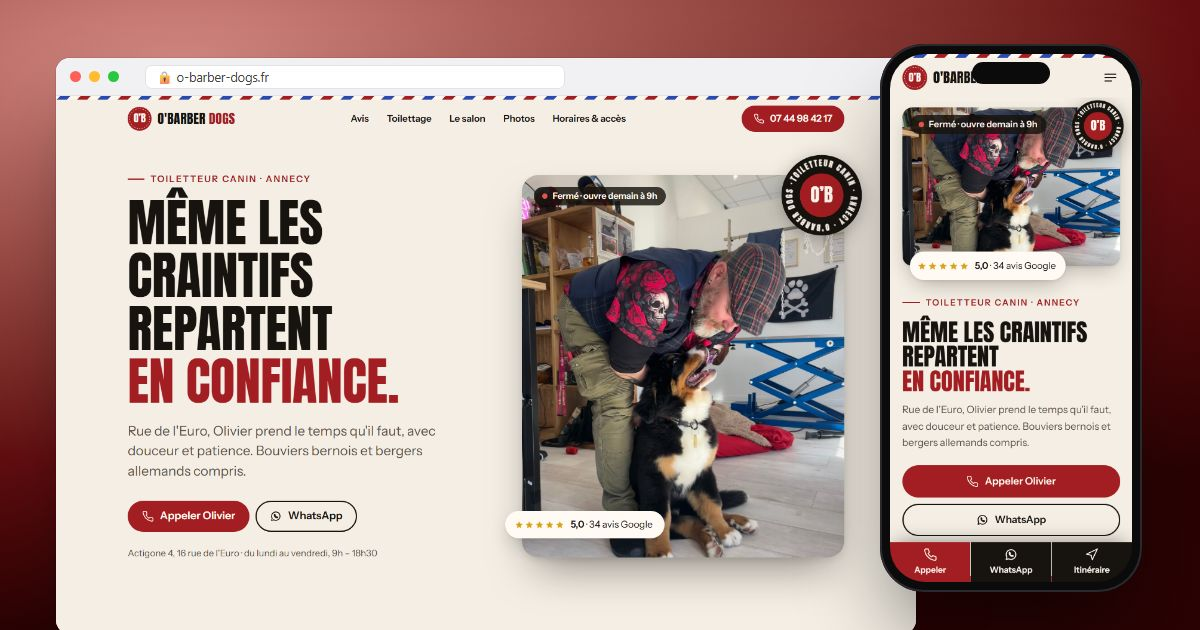
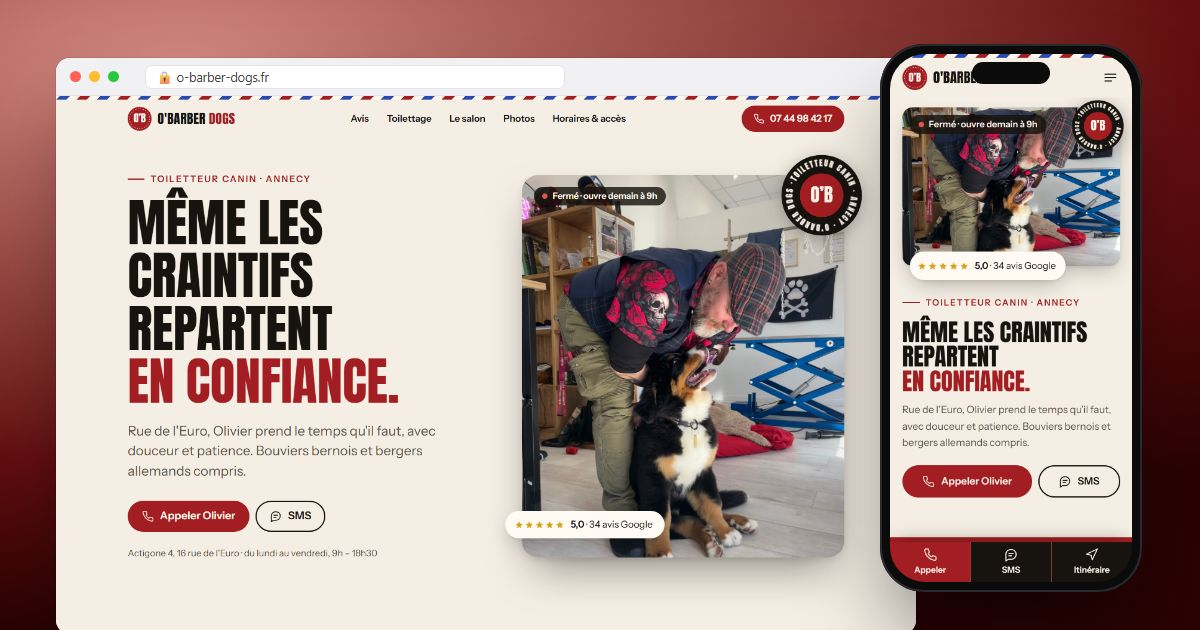
Generated site

diff --git a/index.html b/index.html
@@ -559,7 +559,7 @@ section[id] { scroll-margin-top: var(--header-h); }
 <body id="top">
 <svg width="0" height="0" style="position:absolute" aria-hidden="true" focusable="false">
   <symbol id="i-phone" viewBox="0 0 24 24"><path d="M22 16.9v3a2 2 0 0 1-2.2 2 19.8 19.8 0 0 1-8.6-3.1 19.5 19.5 0 0 1-6-6A19.8 19.8 0 0 1 2.1 4.2 2 2 0 0 1 4.1 2h3a2 2 0 0 1 2 1.7c.1.9.4 1.9.7 2.8a2 2 0 0 1-.4 2.1L8.1 9.9a16 16 0 0 0 6 6l1.3-1.3a2 2 0 0 1 2.1-.4c.9.3 1.9.6 2.8.7a2 2 0 0 1 1.7 2z"/></symbol>
-  <symbol id="i-wa" viewBox="0 0 24 24"><path d="M20.5 11.8a8.5 8.5 0 0 1-12.6 7.4L3.5 20.5l1.3-4.2a8.5 8.5 0 1 1 15.7-4.5z"/><path d="M9.3 8.2c.3-.5.8-.5 1 0l.7 1.6c.1.3 0 .6-.2.8l-.5.5a5.2 5.2 0 0 0 2.6 2.6l.5-.5c.2-.2.5-.3.8-.2l1.6.7c.5.2.5.7 0 1-.6.4-1.3.6-2 .4a6.6 6.6 0 0 1-4.9-4.9c-.1-.7.1-1.5.4-2z"/></symbol>
+  <symbol id="i-sms" viewBox="0 0 24 24"><path d="M21 11.5a8.5 8.5 0 0 1-8.5 8.5H7.5L3 23v-11.5A8.5 8.5 0 0 1 11.5 3h1A8.5 8.5 0 0 1 21 11.5z"/><path d="M8 10h8M8 14h5"/></symbol>
   <symbol id="i-nav" viewBox="0 0 24 24"><path d="M3 11l19-9-9 19-2-8-8-2z"/></symbol>
   <symbol id="i-pin" viewBox="0 0 24 24"><path d="M20 10c0 6-8 12-8 12s-8-6-8-12a8 8 0 0 1 16 0z"/><circle cx="12" cy="10" r="3"/></symbol>
   <symbol id="i-star" viewBox="0 0 24 24"><path fill="currentColor" stroke="none" d="M12 2.5l2.9 6 6.6.9-4.8 4.6 1.2 6.5L12 17.4l-5.9 3.1 1.2-6.5L2.5 9.4l6.6-.9z"/></symbol>
@@ -637,7 +637,7 @@ section[id] { scroll-margin-top: var(--header-h); }
         <p class="hero-sub">Rue de l'Euro, Olivier prend le temps qu'il faut, avec douceur et patience. Bouviers bernois et bergers allemands compris.</p>
         <div class="hero-ctas">
           <a class="btn btn-brand" href="tel:+33744984217"><svg class="ic" aria-hidden="true"><use href="#i-phone"/></svg>Appeler Olivier</a>
-          <a class="btn btn-ghost" href="https://wa.me/33744984217?text=Bonjour%2C%20je%20souhaiterais%20prendre%20rendez-vous%20pour%20le%20toilettage%20de%20mon%20chien." target="_blank" rel="noopener"><svg class="ic" aria-hidden="true"><use href="#i-wa"/></svg>WhatsApp</a>
+          <a class="btn btn-ghost" href="sms:+33744984217?&amp;body=Bonjour%2C%20je%20souhaiterais%20prendre%20rendez-vous%20pour%20le%20toilettage%20de%20mon%20chien."><svg class="ic" aria-hidden="true"><use href="#i-sms"/></svg>SMS</a>
         </div>
         <p class="hero-note">Actigone 4, 16 rue de l'Euro · du lundi au vendredi, 9h – 18h30</p>
       </div>
@@ -872,13 +872,13 @@ section[id] { scroll-margin-top: var(--header-h); }
       <div class="book-copy reveal">
         <p class="eyebrow">Rendez-vous</p>
         <h2 class="h2" id="rdv-title">Parlez de votre chien à Olivier.</h2>
-        <p>Par téléphone ou sur WhatsApp, du lundi au vendredi. Précisez sa race, son âge, et s'il est craintif.</p>
+        <p>Par téléphone ou par SMS, du lundi au vendredi. Précisez sa race, son âge, et s'il est craintif.</p>
         <a class="big-phone" href="tel:+33744984217" aria-label="Appeler le 07 44 98 42 17">07 44 98 42 17</a>
-        <div><a class="btn btn-line-light" href="https://wa.me/33744984217?text=Bonjour%2C%20je%20souhaiterais%20prendre%20rendez-vous%20pour%20le%20toilettage%20de%20mon%20chien." target="_blank" rel="noopener"><svg class="ic" aria-hidden="true"><use href="#i-wa"/></svg>Écrire sur WhatsApp</a></div>
+        <div><a class="btn btn-line-light" href="sms:+33744984217?&amp;body=Bonjour%2C%20je%20souhaiterais%20prendre%20rendez-vous%20pour%20le%20toilettage%20de%20mon%20chien."><svg class="ic" aria-hidden="true"><use href="#i-sms"/></svg>Écrire par SMS</a></div>
       </div>
       <div class="wa-card reveal">
         <h3>Préparer mon message</h3>
-        <p>Il s'ouvre dans WhatsApp. Rien n'est envoyé sans vous.</p>
+        <p>Il s'ouvre dans vos SMS. Rien n'est envoyé sans vous.</p>
         <form class="wa-form" id="wa-form" novalidate>
           <label class="field"><span>Prénom de votre chien</span>
             <input name="dog" type="text" autocomplete="off">
@@ -889,7 +889,7 @@ section[id] { scroll-margin-top: var(--header-h); }
           <label class="field"><span>Un mot pour Olivier <em>(âge, caractère… facultatif)</em></span>
             <textarea name="msg" rows="3"></textarea>
           </label>
-          <button class="btn btn-brand" type="submit"><svg class="ic" aria-hidden="true"><use href="#i-wa"/></svg>Ouvrir dans WhatsApp</button>
+          <button class="btn btn-brand" type="submit"><svg class="ic" aria-hidden="true"><use href="#i-sms"/></svg>Ouvrir dans mes SMS</button>
         </form>
       </div>
     </div>
@@ -911,7 +911,7 @@ section[id] { scroll-margin-top: var(--header-h); }
 
 <nav class="actionbar" aria-label="Actions rapides">
   <a href="tel:+33744984217"><svg class="ic" aria-hidden="true"><use href="#i-phone"/></svg>Appeler</a>
-  <a href="https://wa.me/33744984217?text=Bonjour%2C%20je%20souhaiterais%20prendre%20rendez-vous%20pour%20le%20toilettage%20de%20mon%20chien." target="_blank" rel="noopener"><svg class="ic" aria-hidden="true"><use href="#i-wa"/></svg>WhatsApp</a>
+  <a href="sms:+33744984217?&amp;body=Bonjour%2C%20je%20souhaiterais%20prendre%20rendez-vous%20pour%20le%20toilettage%20de%20mon%20chien."><svg class="ic" aria-hidden="true"><use href="#i-sms"/></svg>SMS</a>
   <a href="https://www.google.com/maps/dir/?api=1&amp;destination=O'Barber%20Dogs%2C%2016%20Rue%20de%20l'Euro%2C%2074960%20Annecy" target="_blank" rel="noopener"><svg class="ic" aria-hidden="true"><use href="#i-nav"/></svg>Itinéraire</a>
 </nav>
 
@@ -1076,7 +1076,7 @@ section[id] { scroll-margin-top: var(--header-h); }
     tiles.forEach(t => t.addEventListener('click', () => open($('img', t).src, '_blank')));
   }
 
-  // WhatsApp message builder (opens WhatsApp, posts nothing)
+  // SMS message builder (opens the SMS app, posts nothing)
   const form = $('#wa-form');
   form.addEventListener('submit', e => {
     e.preventDefault();
@@ -1085,7 +1085,7 @@ section[id] { scroll-margin-top: var(--header-h); }
     let t = 'Bonjour Olivier, je souhaiterais prendre rendez-vous pour un toilettage.';
     if (dog) t += '\nMon chien : ' + dog + '.';
     if (v('msg')) t += '\n' + v('msg');
-    open('https://wa.me/33744984217?text=' + encodeURIComponent(t), '_blank', 'noopener');
+    location.href = 'sms:+33744984217?&body=' + encodeURIComponent(t);
   });
 })();
 </script>
